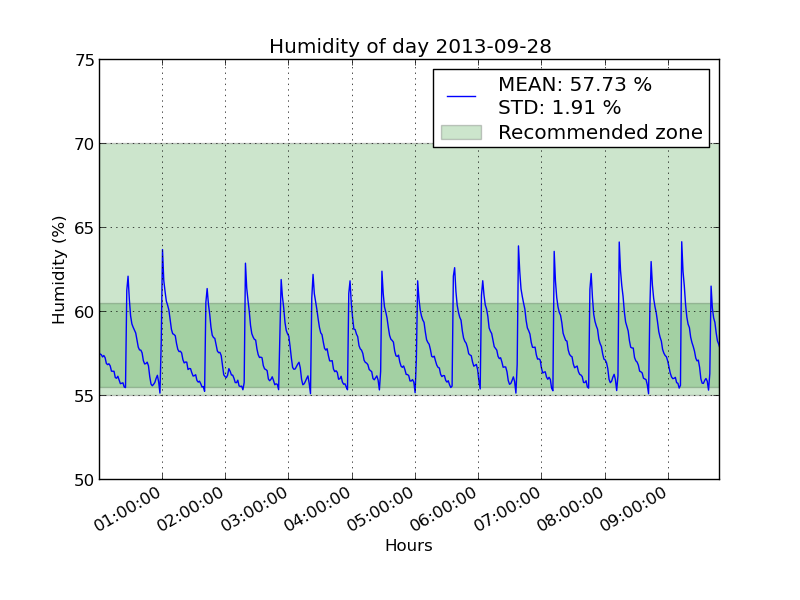
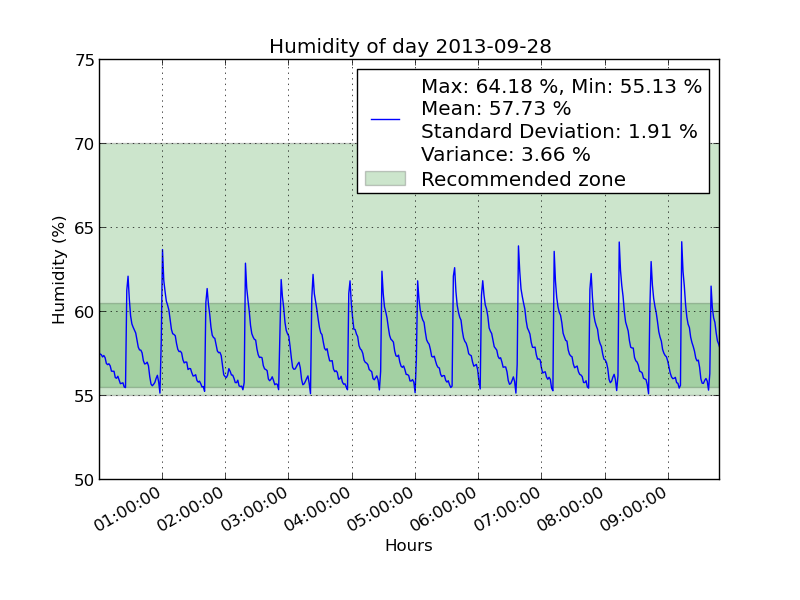
Added variance, max and min to the plots to provide more info

Changed region(s): [[0.4375, 0.09, 0.9062, 0.33]]

diff --git a/Raspberry_files/charts.py b/Raspberry_files/charts.py
@@ -99,7 +99,10 @@ def save_humi_from_dataframe_by_day(dataframe, string_day, humi_param_MAX, humi_
 	plt.axhspan(humi_MIN, humi_MAX, facecolor='g', alpha=0.2)
  	today_plot_mean = today_plot.mean()
  	today_plot_std = today_plot.std()
- 	legend( ('MEAN: %.2f %%\nSTD: %.2f %%' % (today_plot_mean, today_plot_std), 'Recommended zone') , loc = 'upper right')
+ 	today_plot_var = today_plot.var()
+ 	today_plot_min = today_plot.min()
+ 	today_plot_max = today_plot.max()
+ 	legend( ('Max: %.2f %%, Min: %.2f %%\nMean: %.2f %%\nStandard Deviation: %.2f %%\nVariance: %.2f %%' % (today_plot_max, today_plot_min, today_plot_mean, today_plot_std, today_plot_var), 'Recommended zone') , loc = 'upper right')
  	plt.ylabel('Humidity (%)')
 	plt.xlabel('Hours')
 	plt.savefig('humi_%s.png' % string_day, orientation='landscape')
@@ -117,7 +120,10 @@ def save_temp_from_dataframe_by_day(dataframe, string_day, temp_param_MAX, temp_
 	plt.axhspan(temp_MIN, temp_MAX, facecolor='g', alpha=0.2)
 	today_plot_mean = today_plot.mean()
 	today_plot_std = today_plot.std()
-	legend( ('MEAN: %.2f %sC\nSTD: %.2f %sC' % (today_plot_mean, degree_sign, today_plot_std, degree_sign), 'Recommended zone') , loc = 'upper right')
+	today_plot_var = today_plot.var()
+ 	today_plot_min = today_plot.min()
+ 	today_plot_max = today_plot.max()	
+	legend( ('Max: %.2f %sC, Min: %.2f %sC\nMean: %.2f %sC\nStandard Deviation: %.2f %sC\nVariance: %.2f %sC' % (today_plot_max, degree_sign, today_plot_min, degree_sign, today_plot_mean, degree_sign, today_plot_std, degree_sign, today_plot_var, degree_sign), 'Recommended zone') , loc = 'upper right')
 	plt.ylabel('Temperature (%sC)' % degree_sign)
 	plt.xlabel('Hours')
 	plt.savefig('temp_%s.png' % string_day, orientation='landscape')
